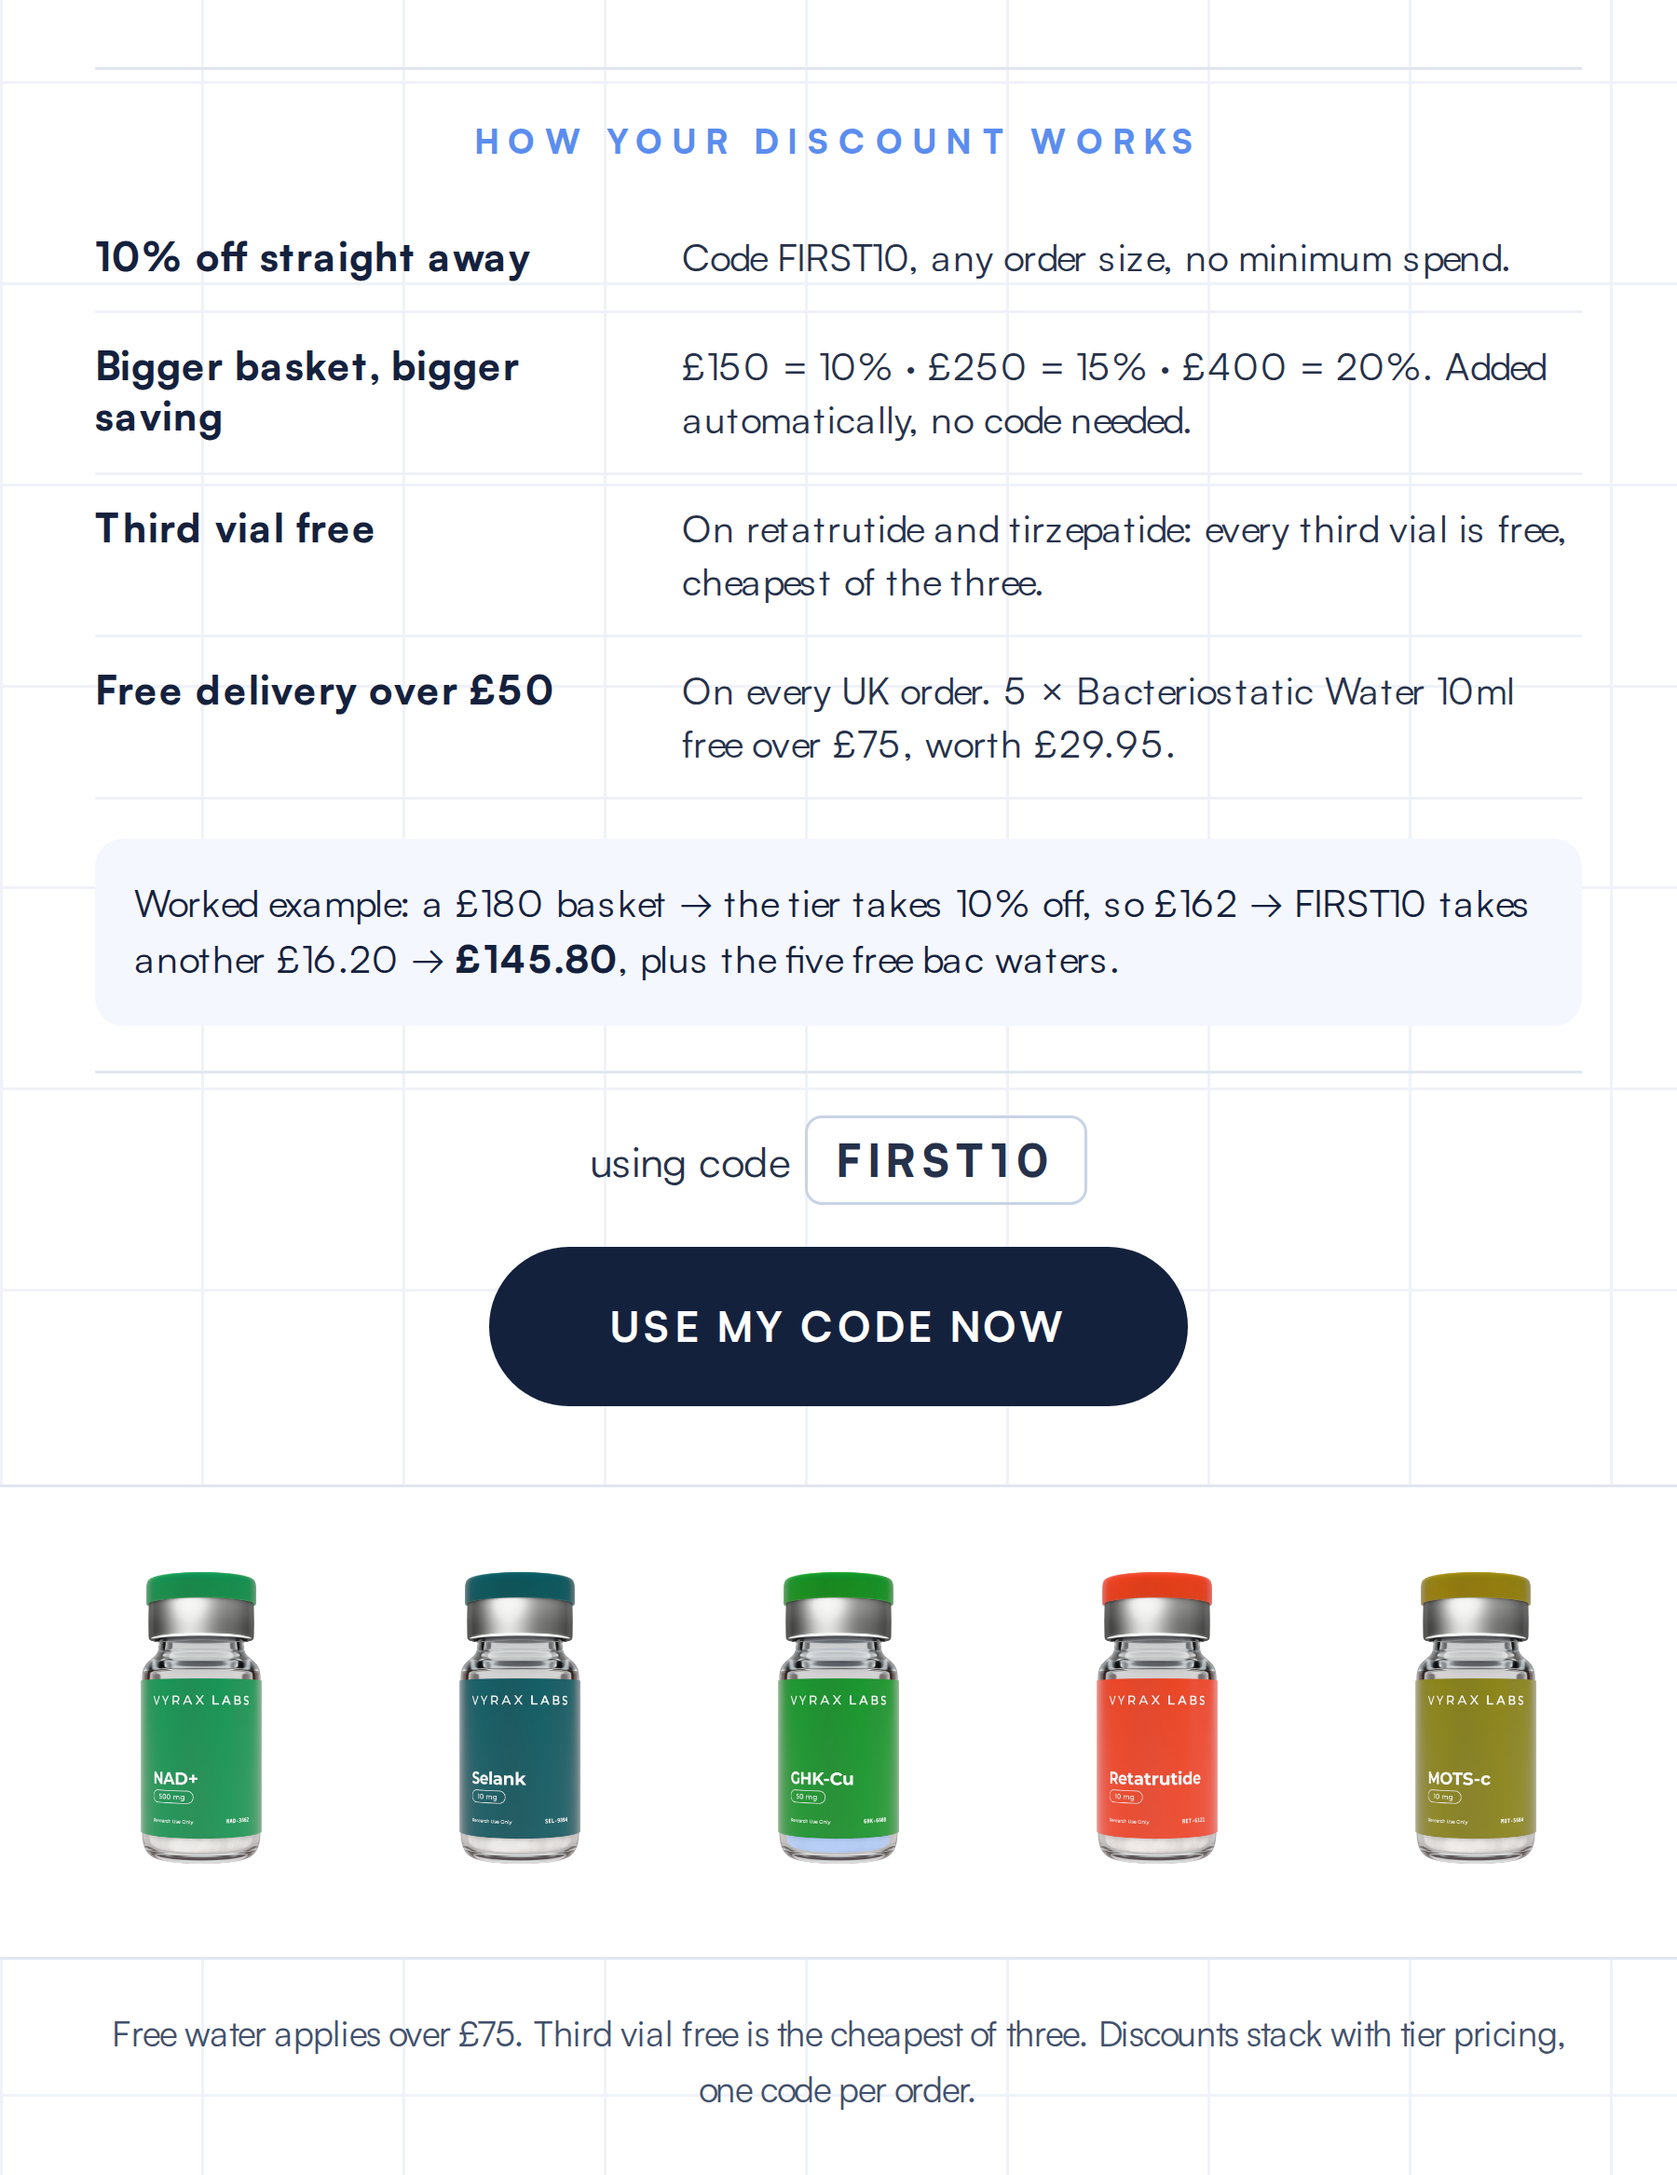
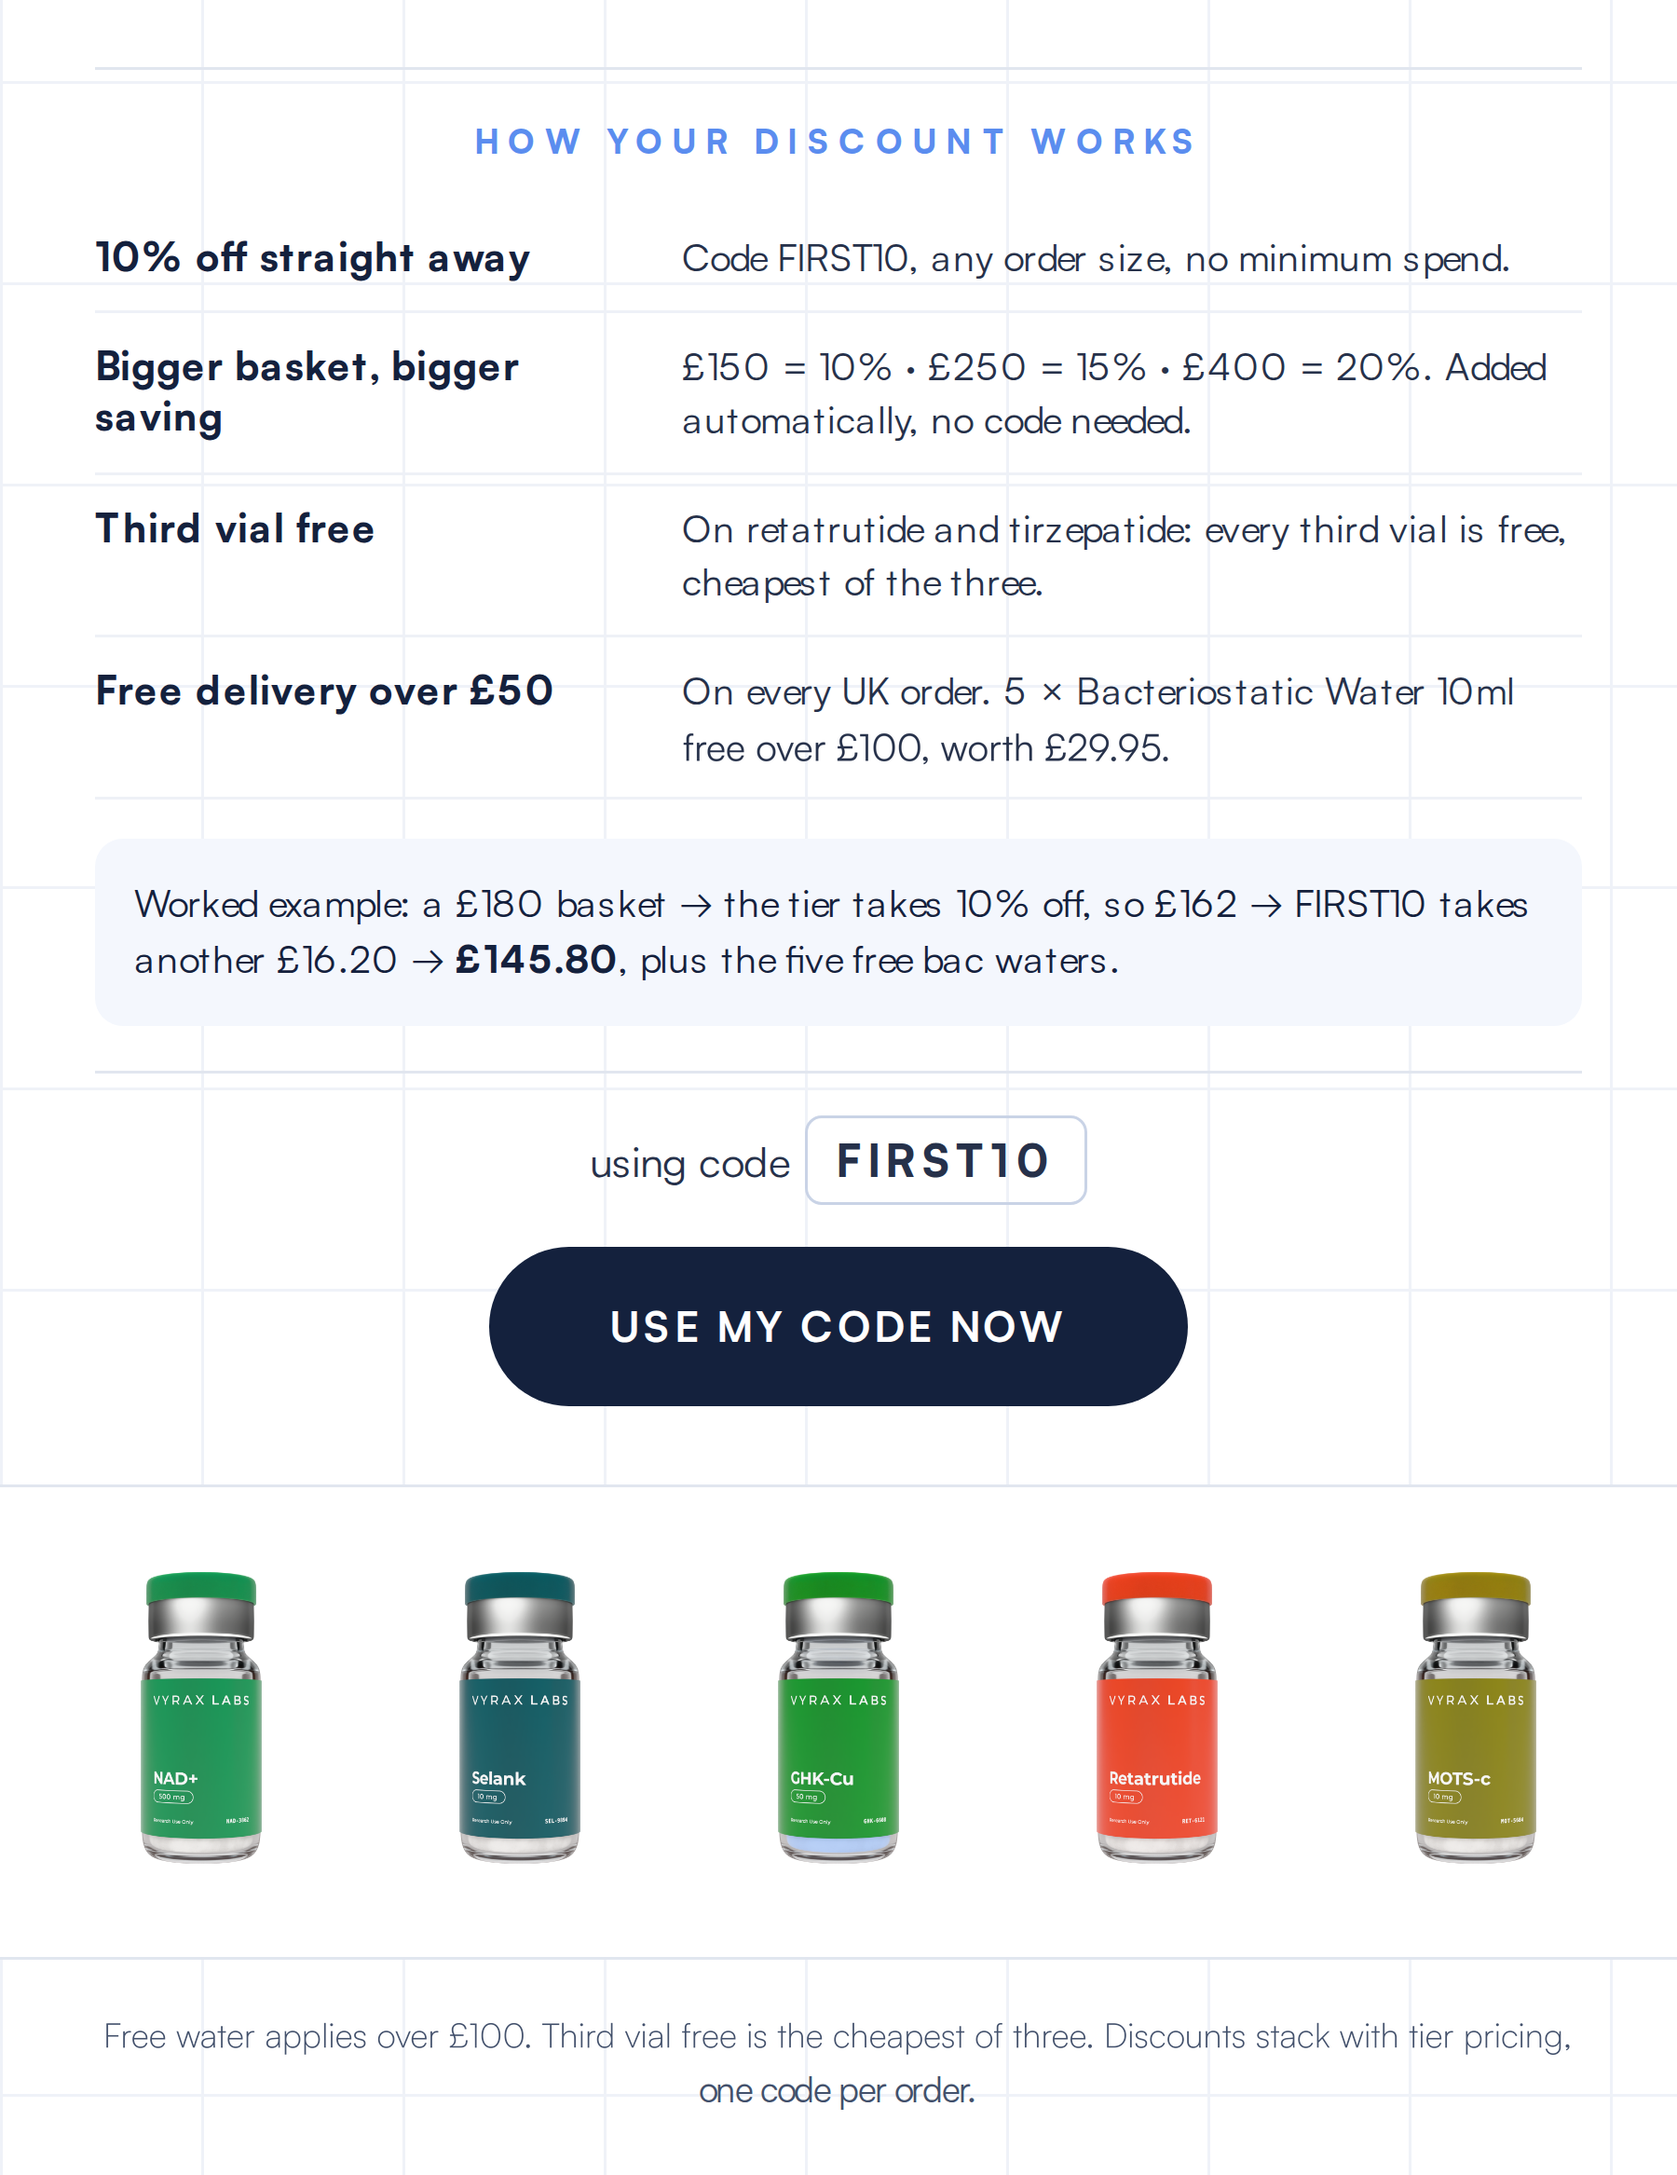
Offer: free 5x bac water threshold £75 -> £100 (site data, welcome email copy, welcome-3 art, test)

Changed region(s): [[0.0622, 0.9254, 0.9333, 0.9563], [0.4044, 0.3393, 0.6844, 0.3702]]

diff --git a/src/lib/email/welcome-image.ts b/src/lib/email/welcome-image.ts
@@ -14,11 +14,11 @@ export function buildWelcomeEmail(o: {
     : "";
   const imgs =
     IMG(1, "Up to 20% off your first order, plus five free bac water vials", o.shopUrl) +
-    IMG(2, "How your discount works: five free bac water vials over 75, free delivery over 50, 10% off 150, 15% off 250, 20% off 400", o.shopUrl) +
+    IMG(2, "How your discount works: five free bac water vials over 100, free delivery over 50, 10% off 150, 15% off 250, 20% off 400", o.shopUrl) +
     IMG(3, "Most requested: BPC-157, retatrutide, GHK-Cu", o.shopUrl) +
     IMG(4, "Every report we publish is the lab's own", o.shopUrl);
   const head = `<!doctype html><html lang="en"><head><meta charset="utf-8"><meta name="viewport" content="width=device-width,initial-scale=1"><title>Your code</title><style>@media (prefers-color-scheme:dark){body{background:#0E1730!important}table{background:#0E1730!important}}</style></head><body style="margin:0;padding:0;background:#FFFFFF"><div style="display:none;font-size:1px;color:#FFFFFF;max-height:0;overflow:hidden">Your code is inside, plus the free goods you unlock as the basket grows.</div><table role="presentation" width="100%" cellspacing="0" cellpadding="0" bgcolor="#FFFFFF"><tr><td align="center"><table role="presentation" width="600" cellspacing="0" cellpadding="0" style="width:100%;max-width:600px;background:#FFFFFF">`;
-  const bits = `<tr><td style="padding:18px 28px 26px;font-family:-apple-system,Segoe UI,Helvetica,Arial,sans-serif;text-align:center"><p style="margin:0 0 8px;font-size:14px;color:#14213D">Code <strong>${o.code}</strong> takes 10% off any order size. Spend 150 and the basket takes 10% off, 250 takes 15%, 400 takes 20%, added automatically. Third vial free on retatrutide and tirzepatide. Free delivery over 50, and five free bac water vials over 75.</p>`;
+  const bits = `<tr><td style="padding:18px 28px 26px;font-family:-apple-system,Segoe UI,Helvetica,Arial,sans-serif;text-align:center"><p style="margin:0 0 8px;font-size:14px;color:#14213D">Code <strong>${o.code}</strong> takes 10% off any order size. Spend 150 and the basket takes 10% off, 250 takes 15%, 400 takes 20%, added automatically. Third vial free on retatrutide and tirzepatide. Free delivery over 50, and five free bac water vials over 100.</p>`;
   const legal = `Sold for research use only. Not a licensed medicine. No dose is on the label.`;
   const policy = `Research use policy: ${SITE_URL}/research-use-policy`;
   const links = `<a href="${o.shopUrl}" style="color:#14213D">Shop</a> · <a href="mailto:${o.contactEmail}" style="color:#14213D">${o.contactEmail}</a>${foot ? ` · ${foot}` : ""}`;
@@ -28,6 +28,6 @@ export function buildWelcomeEmail(o: {
     ? `<tr><td align="center" style="padding:0 28px 16px;font-family:-apple-system,Segoe UI,Helvetica,Arial,sans-serif"><p style="margin:0;font-size:13px;line-height:1.6;color:#4A5568">Your reconstitution guide is ready: <a href="${o.guideUrl}" style="color:#14213D;font-weight:700">download the PDF</a></p></td></tr>`
     : "";
   const html = head + brand + guide + imgs + bits + tail;
-  const text = [`Vyrax Labs`, ``, `Your code: ${o.code}`, "", "Up to 20% off your first order.", "How the discount works: code FIRST10 takes 10% off any order. Spend 150 and the basket takes 10% off, 250 takes 15%, 400 takes 20%, added automatically. Third vial free on retatrutide and tirzepatide. Free delivery over 50, five free bac water vials over 75.", o.guideUrl ? `Guide: ${o.guideUrl}` : "", "", legal, policy, o.unsubscribe ? `Unsubscribe: ${o.unsubscribe}` : "Unsubscribe: mailto:"+o.contactEmail, o.shopUrl, o.contactEmail];
+  const text = [`Vyrax Labs`, ``, `Your code: ${o.code}`, "", "Up to 20% off your first order.", "How the discount works: code FIRST10 takes 10% off any order. Spend 150 and the basket takes 10% off, 250 takes 15%, 400 takes 20%, added automatically. Third vial free on retatrutide and tirzepatide. Free delivery over 50, five free bac water vials over 100.", o.guideUrl ? `Guide: ${o.guideUrl}` : "", "", legal, policy, o.unsubscribe ? `Unsubscribe: ${o.unsubscribe}` : "Unsubscribe: mailto:"+o.contactEmail, o.shopUrl, o.contactEmail];
   return { html, text };
 }

diff --git a/src/lib/gift100.test.ts b/src/lib/gift100.test.ts
@@ -1,0 +1,8 @@
+import { test, expect } from "bun:test";
+import { priceBasket } from "./basket-pricing";
+const item = (price: number) => ({ slug: "x", name: "x", strength: "10mg", price, quantity: 1 }) as any;
+test("gift threshold is 100: 99 none, 100 and 101 get gift", () => {
+  expect(priceBasket([item(99)]).gift).toBeUndefined();
+  expect(priceBasket([item(100)]).gift?.quantity).toBe(5);
+  expect(priceBasket([item(101)]).gift?.quantity).toBe(5);
+});

diff --git a/src/data/site.ts b/src/data/site.ts
@@ -61,7 +61,7 @@ export const site = {
     short: "5× Bac Water",
     quantity: 5,
     value: 29.95,
-    over: 75,
+    over: 100,
   } as {
     slug: string;
     strength: string;
